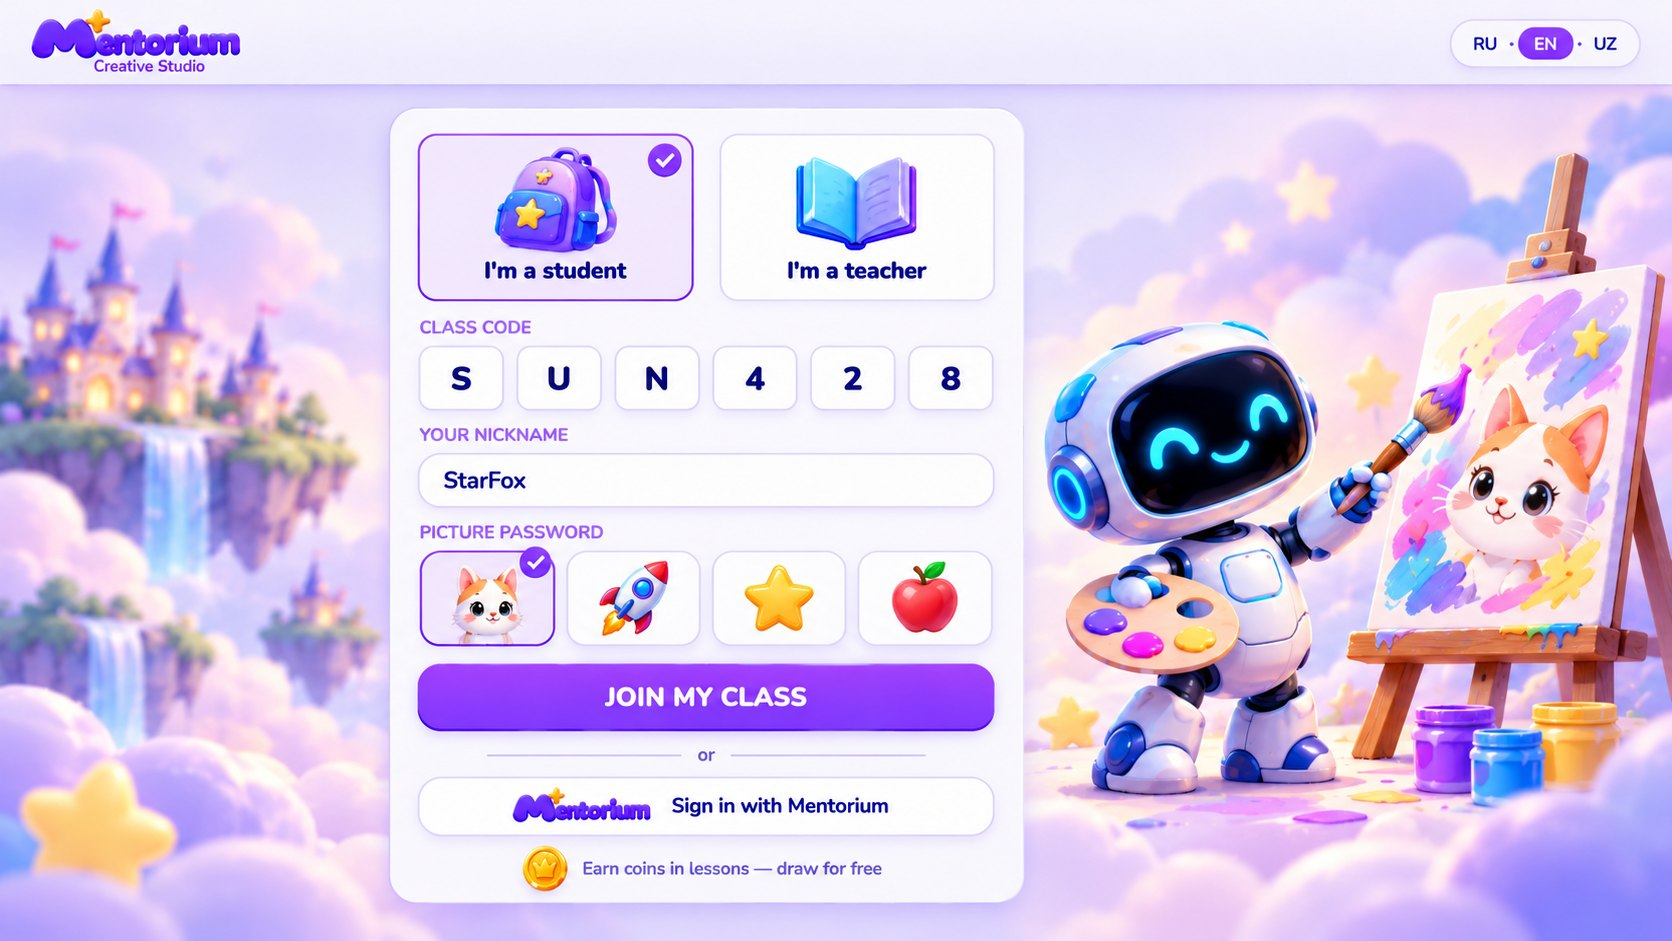
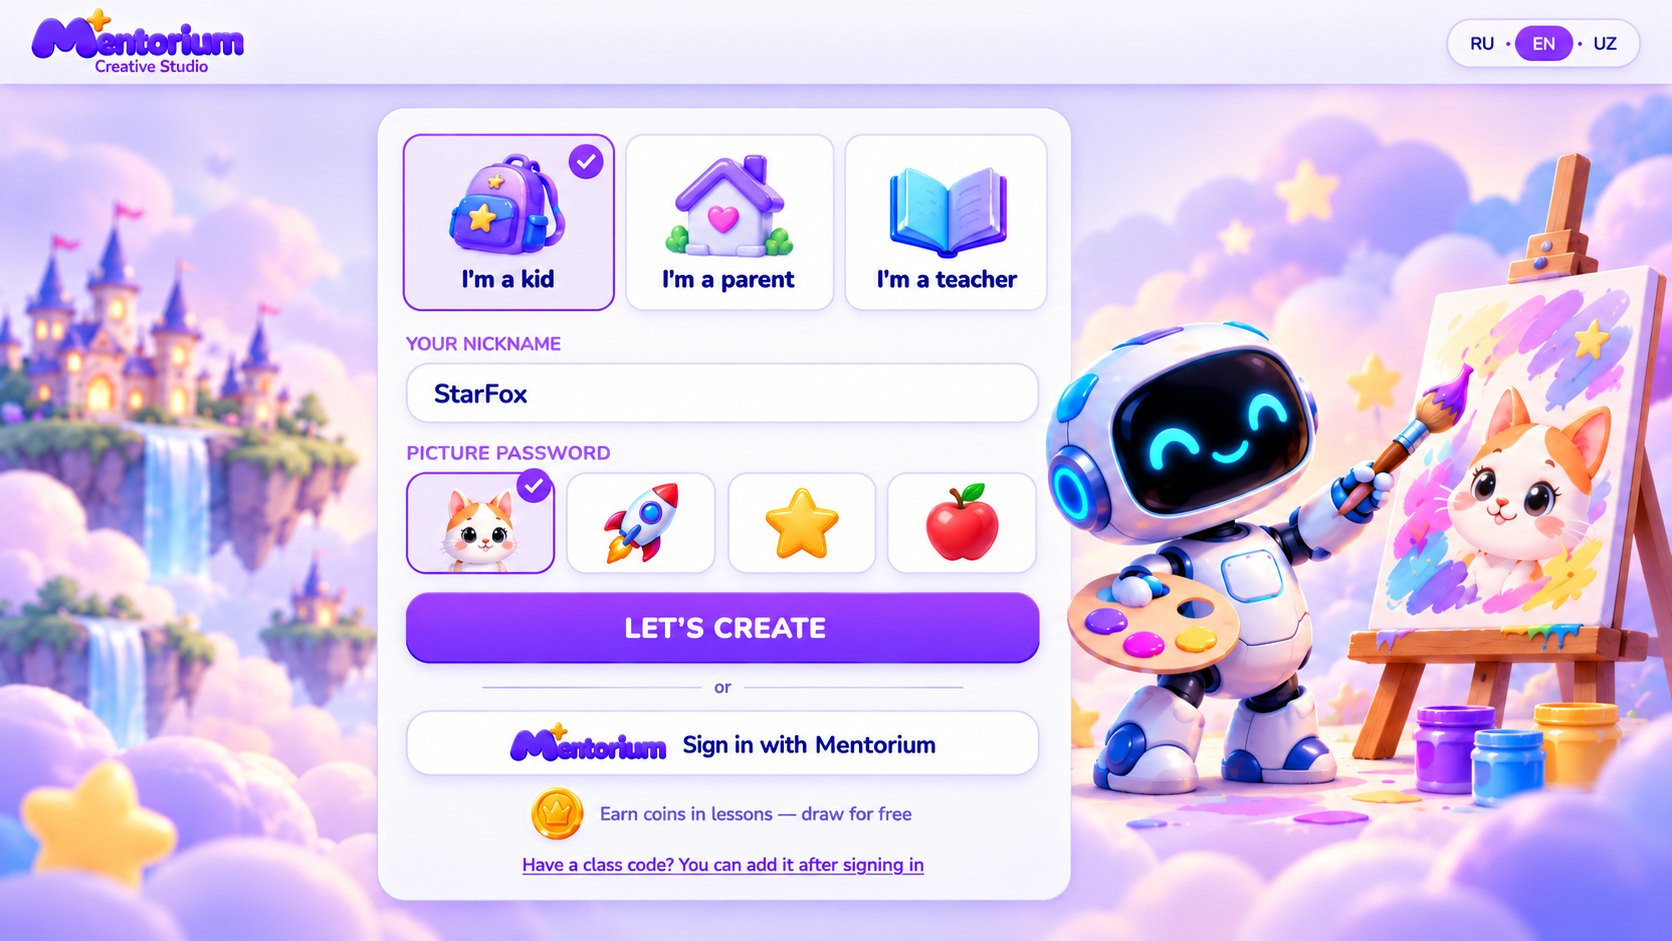
docs(design): parent dashboard and three-role sign-in

diff --git a/docs/design/README.md b/docs/design/README.md
@@ -12,8 +12,9 @@
 | `create.jpg` | «Создать»: веер превью, 8 стилей, задание учителя, панель |
 | `result.jpg` | результат (2 варианта) и мягкий отказ «Давай нарисуем по-другому», монета вернулась |
 | `kinder.jpg` | комментарии и «Скажи добрее?» |
-| `login.jpg` | вход: ученик по коду класса + картинка-пароль / учитель / «Войти через Mentorium» |
-| `teacher.jpg` | учитель: «Задержано» с причинами, одобрить/отклонить, срочное сверху, размытое лицо |
+| `login.jpg` | вход: ребёнок (ник + картинка-пароль) / родитель / учитель / «Войти через Mentorium»; код класса — после входа |
+| `parent.jpg` | кабинет родителя: дети и монеты, «+ Добавить монеты» (скоро), неделя ребёнка, «Ждёт вашего OK», привязка ребёнка Mentorium по коду |
+| `teacher.jpg` | учитель (выложенное в класс): «Задержано» с причинами, одобрить/отклонить, срочное сверху, размытое лицо |
 
 Известные расхождения со спекой, править при вёрстке: на `teacher.jpg` срочная строка подписана «Personal
 info» — должна быть пометка самочувствия без текста и без кнопки «Approve» (только «Открыть»); на
